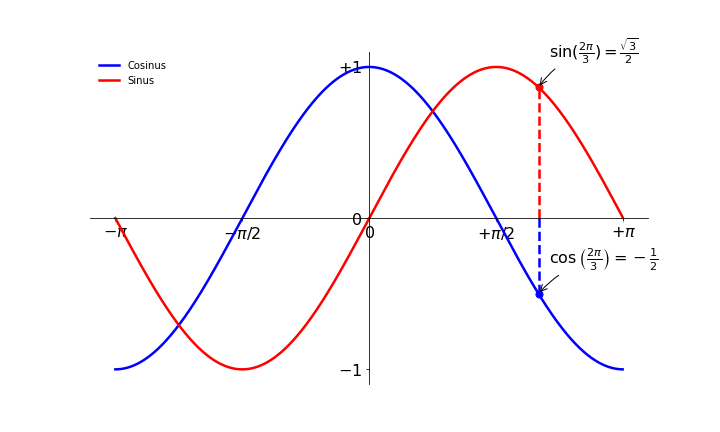
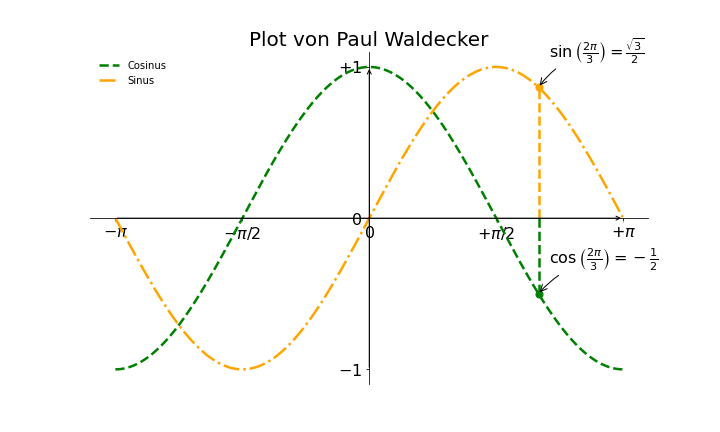
UE01 - B - Initial Commit - Second Version Sinus Cosinus - In Progress B2 - Ready to Review None

diff --git a/UE01/plot1.py b/UE01/plot1.py
@@ -8,38 +8,51 @@ X = [2*PI*i/CNT - PI for i in range(CNT)]
 C = [math.cos(x) for x in X]
 S = [math.sin(x) for x in X]
 
-plt.figure(figsize=(10,6), dpi=80)
-plt.plot(X, C, color="blue", linewidth=2.5, linestyle="-", label="Cosinus")
-plt.plot(X, S, color="red",  linewidth=2.5, linestyle="-", label="Sinus")
+plt.figure(figsize=(10, 6), dpi=80)
+# Ändere die Linienfarbe und den Linienstil
+plt.plot(X, C, color="green", linewidth=2.5, linestyle="--", label="Cosinus")
+plt.plot(X, S, color="orange", linewidth=2.5, linestyle="-.", label="Sinus")
 
 plt.legend(loc='upper left', frameon=False)
 
-plt.xticks([-PI,-PI/2,0, PI/2, PI],[r'$-\pi$',r'$-\pi/2$',r'$0$',r'$+\pi/2$',r'$+\pi$'])
+plt.xticks([-PI, -PI/2, 0, PI/2, PI], [r'$-\pi$', r'$-\pi/2$', r'$0$', r'$+\pi/2$', r'$+\pi$'])
 plt.yticks([-1, 0, 1], [r'$-1$', r'$0$', r'$+1$'])
 
-ax=plt.gca()
+ax = plt.gca()
 ax.spines['right'].set_color('none')
 ax.spines['top'].set_color('none')
 ax.xaxis.set_ticks_position('bottom')
-ax.spines['bottom'].set_position(('data',0))
+ax.spines['bottom'].set_position(('data', 0))
 ax.yaxis.set_ticks_position('left')
-ax.spines['left'].set_position(('data',0))
+ax.spines['left'].set_position(('data', 0))
 
-t=2*PI/3
-plt.plot([t,t],[0,math.sin(t)], color='red', linewidth=2.5, linestyle="--")
-plt.scatter([t,],[math.sin(t),],50, color='red')
-plt.annotate(r'$\sin(\frac{2\pi}{3})=\frac{\sqrt{3}}{2}$',xy=(t, math.sin(t)), xycoords='data',xytext=(+10,+30), textcoords='offset points', fontsize=16,arrowprops=dict(arrowstyle="->", connectionstyle="arc3,rad=.2"))
 
-t=2*PI/3
-plt.plot([t,t],[0,math.cos(t)], color='blue', linewidth=2.5, linestyle="--")
-plt.scatter([t,],[math.cos(t),],50, color='blue')
-plt.annotate(r'$\cos\left(\frac{2\pi}{3}\right) = -\frac{1}{2}$',xy=(t, math.cos(t)), xycoords='data',xytext=(+10,+30), textcoords='offset points', fontsize=16,arrowprops=dict(arrowstyle="->", connectionstyle="arc3,rad=.2"))
+# Original markierte Punkte für 2π/3
+t = 2 * PI / 3
+plt.plot([t, t], [0, math.sin(t)], color='orange', linewidth=2.5, linestyle="--")
+plt.scatter([t], [math.sin(t)], 50, color='orange')
+plt.annotate(r'$\sin\left(\frac{2\pi}{3}\right)=\frac{\sqrt{3}}{2}$',
+             xy=(t, math.sin(t)), xycoords='data', xytext=(+10, +30), textcoords='offset points',
+             fontsize=16, arrowprops=dict(arrowstyle="->", connectionstyle="arc3,rad=.2"))
 
-for label in ax.get_xticklabels()+ax.get_yticklabels():
+plt.plot([t, t], [0, math.cos(t)], color='green', linewidth=2.5, linestyle="--")
+plt.scatter([t], [math.cos(t)], 50, color='green')
+plt.annotate(r'$\cos\left(\frac{2\pi}{3}\right) = -\frac{1}{2}$',
+             xy=(t, math.cos(t)), xycoords='data', xytext=(+10, +30), textcoords='offset points',
+             fontsize=16, arrowprops=dict(arrowstyle="->", connectionstyle="arc3,rad=.2"))
+
+# Füge Titel hinzu
+plt.title('Plot von Paul Waldecker', fontsize=20)
+
+# Pfeile bei den Achsen
+plt.annotate('', xy=(PI, 0), xytext=(-PI, 0), arrowprops=dict(arrowstyle='->', color='black'))
+plt.annotate('', xy=(0, 1), xytext=(0, -1), arrowprops=dict(arrowstyle='->', color='black'))
+
+for label in ax.get_xticklabels() + ax.get_yticklabels():
     label.set_fontsize(16)
     label.set_bbox(dict(facecolor='white', edgecolor='None', alpha=0.65))
 
 ax.set_axisbelow(True)
 
-plt.savefig("plot1_waldecker.png",dpi=72)
+plt.savefig("plot1_waldecker.png", dpi=72)
 plt.show()
